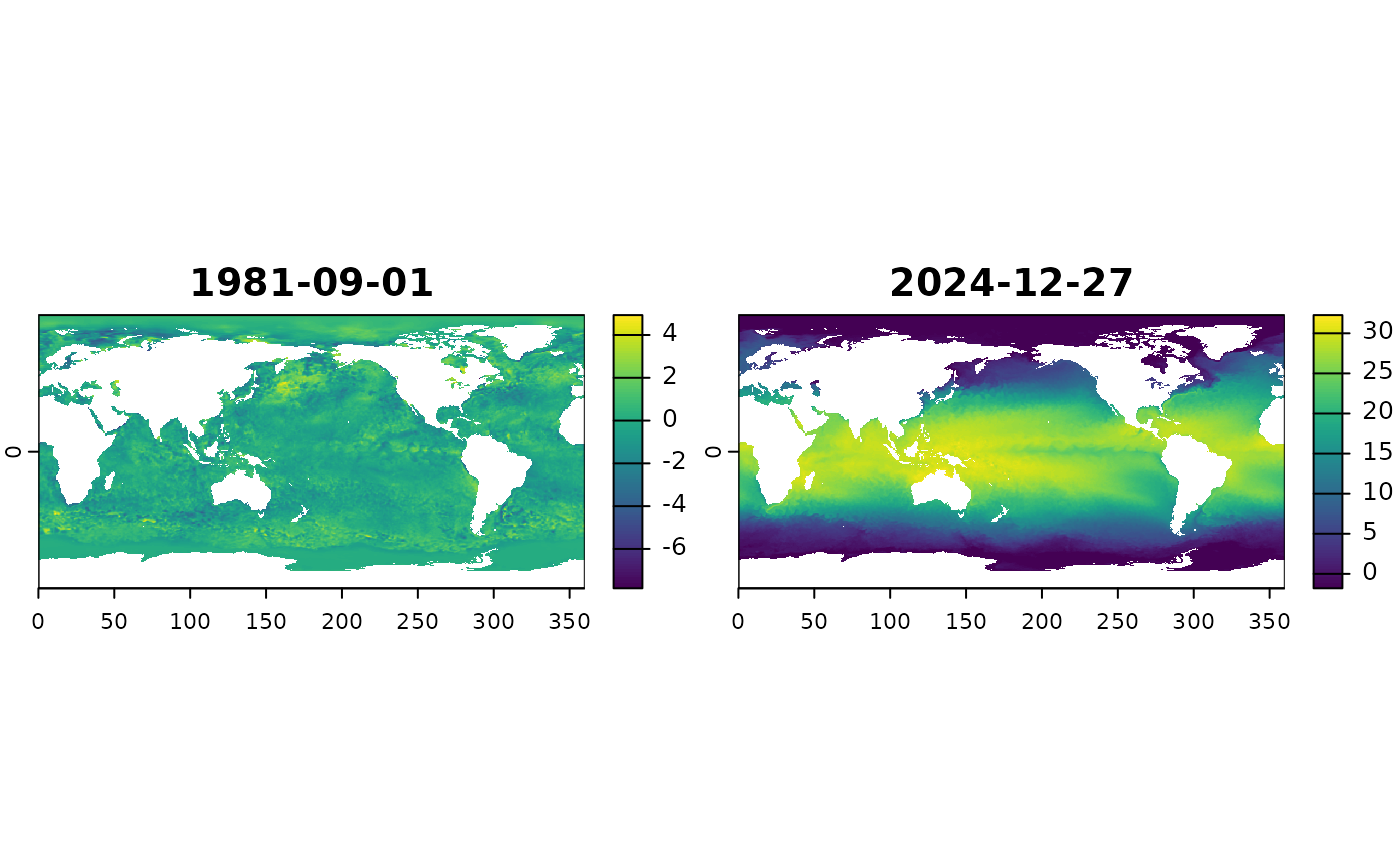
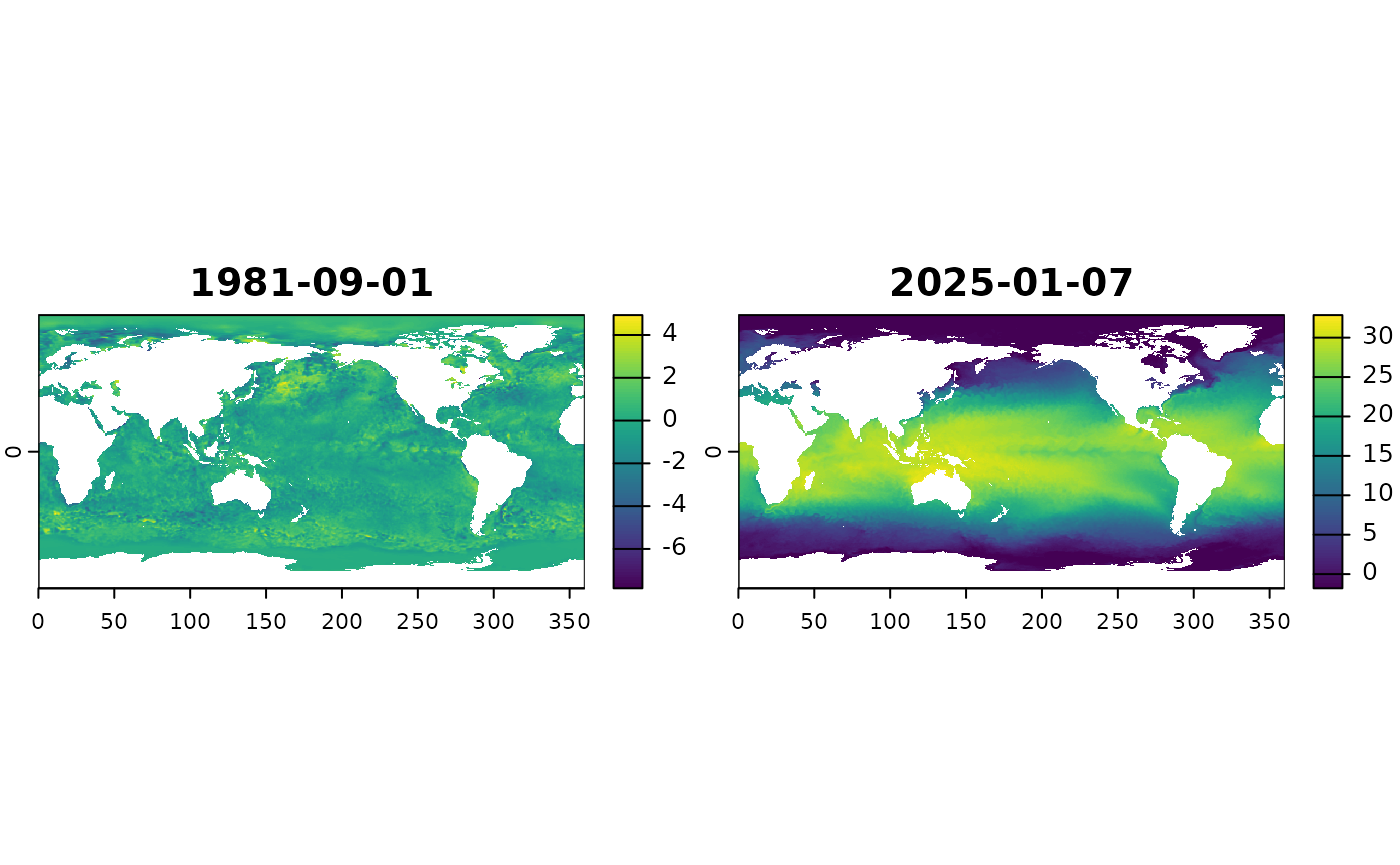
Deploying to gh-pages from @ mdsumner/sooty.watch@2831d0e059ea225b322cf47e6124b717abbada9e 🚀

diff --git a/articles/sooty-watch.html b/articles/sooty-watch.html
@@ -87,7 +87,7 @@
 <span><span class="co">#&gt; <span style="color: #BCBCBC;">1</span> NSIDC_SEAICE_PS_N25km          1978-10-26 <span style="color: #949494;">00:00:00</span> 2025-01-12 <span style="color: #949494;">00:00:00</span> <span style="text-decoration: underline;">16</span>875</span></span>
 <span><span class="co">#&gt; <span style="color: #BCBCBC;">2</span> NSIDC_SEAICE_PS_S25km          1978-10-26 <span style="color: #949494;">00:00:00</span> 2025-01-12 <span style="color: #949494;">00:00:00</span> <span style="text-decoration: underline;">16</span>875</span></span>
 <span><span class="co">#&gt; <span style="color: #BCBCBC;">3</span> antarctica-amsr2-asi-s3125-tif 2012-07-02 <span style="color: #949494;">00:00:00</span> 2025-01-12 <span style="color: #949494;">00:00:00</span>  <span style="text-decoration: underline;">4</span>567</span></span>
-<span><span class="co">#&gt; <span style="color: #BCBCBC;">4</span> oisst-avhrr-v02r01             1981-09-01 <span style="color: #949494;">00:00:00</span> 2024-12-27 <span style="color: #949494;">00:00:00</span> <span style="text-decoration: underline;">15</span>824</span></span>
+<span><span class="co">#&gt; <span style="color: #BCBCBC;">4</span> oisst-avhrr-v02r01             1981-09-01 <span style="color: #949494;">00:00:00</span> 2025-01-07 <span style="color: #949494;">00:00:00</span> <span style="text-decoration: underline;">15</span>835</span></span>
 <span><span class="co">#&gt; <span style="color: #BCBCBC;">5</span> ghrsst-tif                     2002-06-01 <span style="color: #949494;">00:00:00</span> 2024-12-21 <span style="color: #949494;">00:00:00</span>   475</span></span>
 <span><span class="co">#&gt; <span style="color: #BCBCBC;">6</span> SEALEVEL_GLO_PHY_L4            1993-01-01 <span style="color: #949494;">00:00:00</span> 2024-11-25 <span style="color: #949494;">00:00:00</span> <span style="text-decoration: underline;">11</span>538</span></span>
 <span></span>
@@ -96,7 +96,7 @@
 <span><span class="co">#&gt;   Bucket                                                n</span></span>
 <span><span class="co">#&gt;   <span style="color: #949494; font-style: italic;">&lt;chr&gt;</span>                                             <span style="color: #949494; font-style: italic;">&lt;int&gt;</span></span></span>
 <span><span class="co">#&gt; <span style="color: #BCBCBC;">1</span> idea-10.5067-mpyg15waa4wx                         <span style="text-decoration: underline;">33</span>750</span></span>
-<span><span class="co">#&gt; <span style="color: #BCBCBC;">2</span> idea-10.7289-v5sq8xb5                             <span style="text-decoration: underline;">15</span>824</span></span>
+<span><span class="co">#&gt; <span style="color: #BCBCBC;">2</span> idea-10.7289-v5sq8xb5                             <span style="text-decoration: underline;">15</span>835</span></span>
 <span><span class="co">#&gt; <span style="color: #BCBCBC;">3</span> idea-sealevel-glo-phy-l4-rep-observations-008-047 <span style="text-decoration: underline;">11</span>208</span></span>
 <span><span class="co">#&gt; <span style="color: #BCBCBC;">4</span> idea-amsr2-asi-s3125                               <span style="text-decoration: underline;">4</span>567</span></span>
 <span><span class="co">#&gt; <span style="color: #BCBCBC;">5</span> idea-ghrsst                                         475</span></span>

diff --git a/reference/watch.html b/reference/watch.html
@@ -75,7 +75,7 @@
 <span class="r-out co"><span class="r-pr">#&gt;</span> <span style="color: #BCBCBC;">1</span> NSIDC_SEAICE_PS_N25km          1978-10-26 <span style="color: #949494;">00:00:00</span> 2025-01-12 <span style="color: #949494;">00:00:00</span> <span style="text-decoration: underline;">16</span>875</span>
 <span class="r-out co"><span class="r-pr">#&gt;</span> <span style="color: #BCBCBC;">2</span> NSIDC_SEAICE_PS_S25km          1978-10-26 <span style="color: #949494;">00:00:00</span> 2025-01-12 <span style="color: #949494;">00:00:00</span> <span style="text-decoration: underline;">16</span>875</span>
 <span class="r-out co"><span class="r-pr">#&gt;</span> <span style="color: #BCBCBC;">3</span> antarctica-amsr2-asi-s3125-tif 2012-07-02 <span style="color: #949494;">00:00:00</span> 2025-01-12 <span style="color: #949494;">00:00:00</span>  <span style="text-decoration: underline;">4</span>567</span>
-<span class="r-out co"><span class="r-pr">#&gt;</span> <span style="color: #BCBCBC;">4</span> oisst-avhrr-v02r01             1981-09-01 <span style="color: #949494;">00:00:00</span> 2024-12-27 <span style="color: #949494;">00:00:00</span> <span style="text-decoration: underline;">15</span>824</span>
+<span class="r-out co"><span class="r-pr">#&gt;</span> <span style="color: #BCBCBC;">4</span> oisst-avhrr-v02r01             1981-09-01 <span style="color: #949494;">00:00:00</span> 2025-01-07 <span style="color: #949494;">00:00:00</span> <span style="text-decoration: underline;">15</span>835</span>
 <span class="r-out co"><span class="r-pr">#&gt;</span> <span style="color: #BCBCBC;">5</span> ghrsst-tif                     2002-06-01 <span style="color: #949494;">00:00:00</span> 2024-12-21 <span style="color: #949494;">00:00:00</span>   475</span>
 <span class="r-out co"><span class="r-pr">#&gt;</span> <span style="color: #BCBCBC;">6</span> SEALEVEL_GLO_PHY_L4            1993-01-01 <span style="color: #949494;">00:00:00</span> 2024-11-25 <span style="color: #949494;">00:00:00</span> <span style="text-decoration: underline;">11</span>538</span>
 </code></pre></div>
